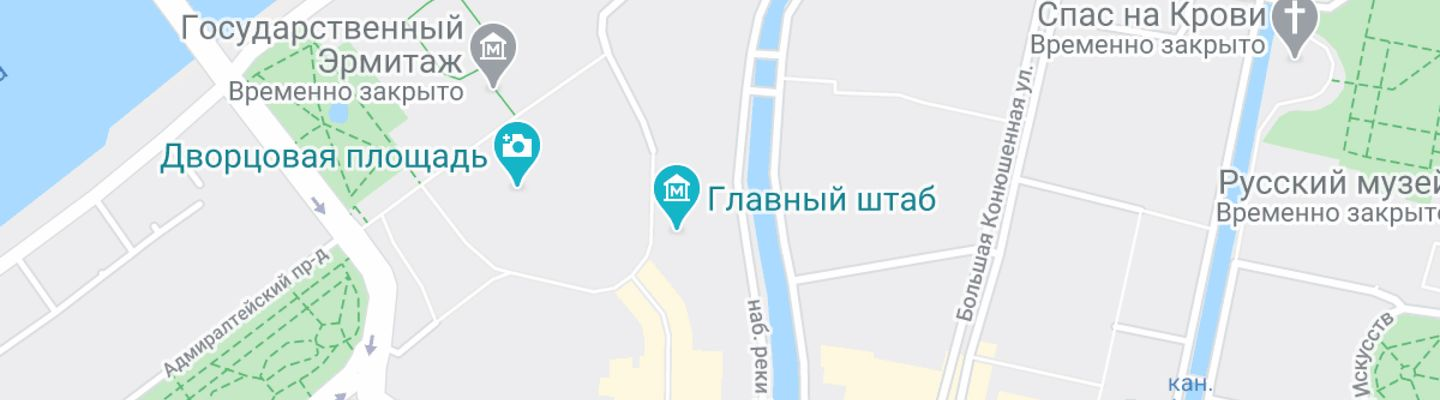
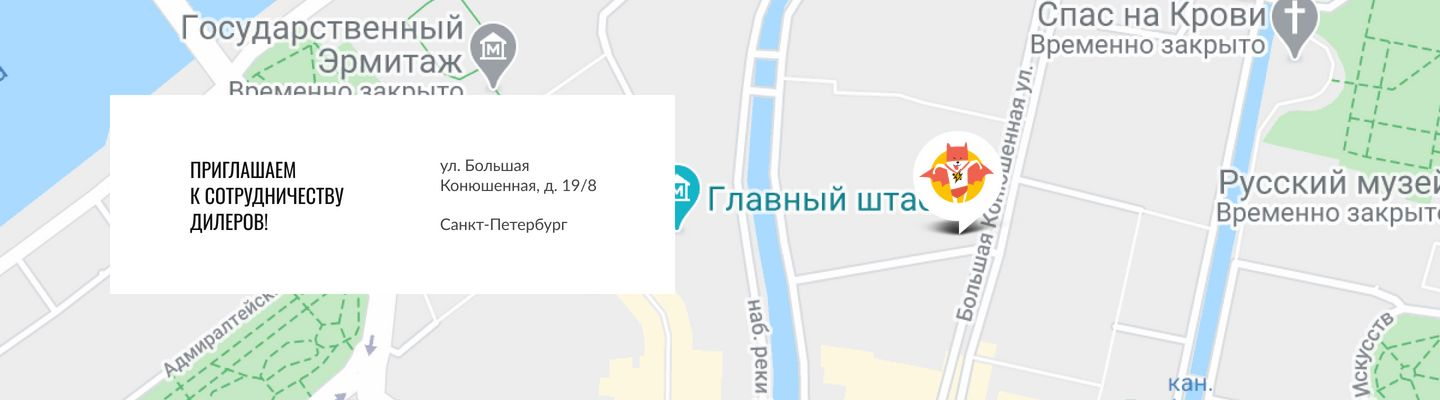
Обновления по замечаниям

diff --git a/source/index.html b/source/index.html
@@ -73,25 +73,23 @@
       </div>
     </section>
     <section class="programs" data-test="programs">
-      <div class="programs__wrapper">
-        <h2 class="visually-hidden">Программы питания для котов</h2>
-        <ul class="programs__programs-list programs-list">
-          <li class="programs-list__item programs-list__item--slim">
-            <h3 class="programs-list__title">Похудение</h3>
-            <p class="programs-list__description">Ваш кот весит больше собаки и почти утратил способность
-              лазить по деревьям? Пора на диету! Cat Energy Slim поможет
-              вашему питомцу сбросить лишний вес.</p>
-            <a class="programs-list__link" href="#">Каталог Slim</a>
-          </li>
-          <li class="programs-list__item programs-list__item--pro">
-            <h3 class="programs-list__title">Набор массы</h3>
-            <p class="programs-list__description">Заработать авторитет среди дворовых котов и даже собак?
-              Серия Cat Energy Pro поможет вашему коту нарастить
-              необходимые мышцы!</p>
-            <a class="programs-list__link" href="#">Каталог  Pro</a>
-          </li>
-        </ul>
-      </div>
+      <h2 class="visually-hidden">Программы питания для котов</h2>
+      <ul class="programs__programs-list programs-list">
+        <li class="programs-list__item programs-list__item--slim">
+          <h3 class="programs-list__title">Похудение</h3>
+          <p class="programs-list__description">Ваш кот весит больше собаки и почти утратил способность
+            лазить по деревьям? Пора на диету! Cat Energy Slim поможет
+            вашему питомцу сбросить лишний вес.</p>
+          <a class="programs-list__link" href="#">Каталог Slim</a>
+        </li>
+        <li class="programs-list__item programs-list__item--pro">
+          <h3 class="programs-list__title">Набор массы</h3>
+          <p class="programs-list__description">Заработать авторитет среди дворовых котов и даже собак?
+            Серия Cat Energy Pro поможет вашему коту нарастить
+            необходимые мышцы!</p>
+          <a class="programs-list__link" href="#">Каталог  Pro</a>
+        </li>
+      </ul>
     </section>
     <section class="work-description" data-test="features">
       <h2 class="work-description__title">Как это работает</h2>
@@ -163,7 +161,7 @@
         </div>
       </div>
     </section>
-    <section class="office-location-map" data-test="contacts">
+    <section class="office-location-map office-location-map--nojs" data-test="contacts">
       <div class="office-location-map__wrapper">
         <h3 class="office-location-map__title">Приглашаем к&nbsp;сотрудничеству дилеров!</h3>
         <div class="office-location-map__description">

diff --git a/source/styles/blocks/hero.scss b/source/styles/blocks/hero.scss
@@ -1,20 +1,25 @@
 .hero::before {
   @media (min-width: $desktop-width) {
-    position: absolute;
-    top: 0;
-    right: 0;
-    content: "";
+
     background-image:
-      linear-gradient(to bottom, rgba(104, 183, 56, 0.85), rgba(104, 183, 56, 0.85)),
+      linear-gradient(rgba(104, 183, 56, 0.85), rgba(104, 183, 56, 0.85) 50%),
       image-set(
         url("../../images/hero-background-desktop@2x.webp") type("image/webp") 2x,
         url("../../images/hero-background-desktop@1x.webp") type("image/webp") 1x,
         url("../../images/hero-background-desktop@2x.jpg") 2x,
         url("../../images/hero-background-desktop@1x.jpg") 1x),
-      linear-gradient(to right, #403f45, #403f45);
-    width: 50%;
-    height: 694px;
+      linear-gradient (#403e41,
+        #403e41 50%);
+    background-position: center, 0 0, center;
+    background-size: cover;
     background-repeat: no-repeat;
+    background-color: $bg-basic-green;
+    min-height: 694px;
+    width: 50%;
+    position: absolute;
+    top: 0;
+    right: 0;
+    display: block;
     z-index: -1;
   }
 }
@@ -53,8 +58,8 @@
 
   @media (min-width: $desktop-width) {
     grid-template-columns: 225px 1fr 1fr 1fr;
-    padding: 29px 110px 52px;
-    max-width: 1920px;
+    padding: 29px 0 52px;
+    max-width: 1220px;
   }
 }
 
@@ -128,6 +133,8 @@
 .hero picture {
   @media (min-width: $tablet-width) {
     display: contents;
+    margin: 0;
+    padding: 0;
   }
 }
 
@@ -160,3 +167,4 @@
     margin-top: 38px;
   }
 }
+

diff --git a/source/styles/blocks/nav-list.scss b/source/styles/blocks/nav-list.scss
@@ -3,13 +3,14 @@
   list-style-type: none;
   text-align: center;
   min-width: 320px;
-  width: 100%;
   margin-bottom: 0;
 
 
   @media (min-width: $tablet-width) {
     display: flex;
     margin: 0;
+    margin-right: 34px;
+    margin-left: 34px;
     min-width: 436px;
     flex-wrap: wrap;
     gap: 33px;
@@ -26,12 +27,6 @@
   }
 }
 
-.nav-list:last-child {
-  @media (min-width: $tablet-width) {
-    margin-right: 34px;
-  }
-}
-
 .nav-list__item {
   display: block;
   padding: 23px;
@@ -45,7 +40,6 @@
 
   @media (min-width: $desktop-width) {
     border: none;
-    margin: auto;
     padding: 0;
   }
 }
@@ -83,6 +77,7 @@
 .nav-list__link--current {
   @media (min-width: $tablet-width) {
     position: relative;
+    display: block;
 
     &::after {
       content: "";

diff --git a/source/styles/blocks/developer.scss b/source/styles/blocks/developer.scss
@@ -1,3 +1,9 @@
+.developer {
+  @media (min-width: $tablet-width) {
+    width: 200px;
+  }
+}
+
 .developer__text {
   font-family: $secondary-font;
   font-size: 16px;
@@ -5,15 +11,16 @@
   color: $base-color-text;
   text-decoration: none;
   display: flex;
-  flex-wrap: wrap;
   justify-content: space-between;
   align-items: center;
+  gap: 5px;
   padding-top: 20px;
 
 
   @media (min-width: $tablet-width) {
     gap: 23px;
     padding: 0;
+    justify-content: flex-end;
   }
 }
 
@@ -26,6 +33,7 @@
   mask-image: url("../../icons/stack.svg#logo-html-academy");
   mask-repeat: no-repeat;
   mask-position: center;
+  flex-shrink: 0;
 }
 
 .developer__text:hover::after {

diff --git a/source/styles/blocks/parametres-list.scss b/source/styles/blocks/parametres-list.scss
@@ -7,6 +7,11 @@
   @media (min-width: $tablet-width) {
     gap: 42px;
   }
+
+  @media (min-width: $desktop-width) {
+    align-items: baseline;
+    justify-content: flex-start;
+  }
 }
 
 .parametres-list__item {
@@ -15,7 +20,7 @@
   padding-bottom: 14px;
 
   @media (min-width: $tablet-width) {
-    min-width: 162px;
+    width: 162px;
   }
 }
 
@@ -34,17 +39,15 @@
   margin: -10px auto 0;
 
   @media (min-width: $tablet-width) {
-    min-width: max-content;
-
     font-size: 14px;
     line-height: 16px;
-
     background-color: #ffffff;
     z-index: 1;
   }
 
   @media (min-width: $desktop-width) {
     background-color: #eaeaea;
+    width: 80%;
   }
 }
 

diff --git a/source/styles/blocks/offer.scss b/source/styles/blocks/offer.scss
@@ -8,7 +8,6 @@
       url("../../images/offer-background-mobile@2x.png") 2x type("image/png"),
       url("../../images/offer-background-mobile@1x.png") 1x type("image/png"));
   background-repeat: no-repeat;
-  background-size: cover, auto;
   padding: 60px 59px 43px;
 
   @media (min-width: $tablet-width) {
@@ -37,6 +36,7 @@
         url("../../images/offer-background-desktop@1x.webp") 1x type("image/webp"),
         url("../../images/offer-background-desktop@2x.png") 2x type("image/png"),
         url("../../images/offer-background-desktop@1x.png") 1x type("image/png"));
+    background-size: 100%;
   }
 }
 

diff --git a/source/catalog.html b/source/catalog.html
@@ -373,7 +373,7 @@
         </form>
       </div>
     </section>
-    <section class="office-location-map office-location-map--catalog" data-test="contacts">
+    <section class="office-location-map office-location-map--catalog office-location-map--nojs" data-test="contacts">
       <div class="office-location-map__wrapper">
         <h3 class="office-location-map__title">Приглашаем к&nbsp;сотрудничеству дилеров!</h3>
         <div class="office-location-map__description">

diff --git a/source/styles/blocks/main-header.scss b/source/styles/blocks/main-header.scss
@@ -1,4 +1,3 @@
-
 .main-header {
   font-family: $primary-font;
 
@@ -33,10 +32,6 @@
   @media (min-width: $tablet-width) {
     display: block;
   }
-
-  @media (min-width: $desktop-width) {
-    width: 40%;
-  }
 }
 
 .main-header__wrapper {
@@ -49,11 +44,13 @@
   @media (min-width: $tablet-width) {
     padding: 0;
     margin-bottom: 0;
+    width: 768px;
   }
 
   @media (min-width: $desktop-width) {
     padding-top: 32px;
-    margin-bottom: 0;
+    margin: 0;
+    width: 1220px;
   }
 }
 

diff --git a/source/styles/blocks/card.scss b/source/styles/blocks/card.scss
@@ -12,7 +12,7 @@
     min-height: 429px;
     width: 324px;
     border-bottom: none;
-    background-image: linear-gradient(to bottom, #ffffff 16%, #ffffff 16%, #f2f2f2 16%);
+    background-image: linear-gradient(to bottom, #ffffff 81px, #ffffff 81px, #f2f2f2 81px);
     box-sizing: border-box;
     align-items: center;
     flex-wrap: nowrap;
@@ -213,6 +213,7 @@
   @media (min-width: $desktop-width) {
     width: 169px;
     margin: 0;
+    margin-top: auto;
   }
 }
 

diff --git a/source/styles/blocks/example.scss b/source/styles/blocks/example.scss
@@ -13,7 +13,7 @@
 
   @media (min-width: $desktop-width) {
     background-color: #ffffff;
-    background-image: (linear-gradient #ffffff 30%, #f2f2f2 30%);
+    background-image: linear-gradient (#ffffff 30%, #f2f2f2 30%);
     padding: 0;
   }
 }
@@ -91,6 +91,7 @@
     justify-content: space-between;
     align-items: center;
     margin-bottom: 72px;
+    row-gap: 20px;
   }
 
   @media (min-width: $desktop-width) {

diff --git a/source/styles/blocks/office-location-map.scss b/source/styles/blocks/office-location-map.scss
@@ -14,6 +14,10 @@
   }
 }
 
+.office-location-map--nojs .office-location-map__widget {
+  display: none;
+}
+
 .office-location-map__wrapper {
   display: flex;
   justify-content: space-between;
@@ -48,6 +52,7 @@
   font-family: $primary-font;
   font-size: 16px;
   line-height: 20px;
+  font-weight: 400;
 
   @media (min-width: $tablet-width) {
     font-size: 20px;

diff --git a/source/styles/blocks/main-footer.scss b/source/styles/blocks/main-footer.scss
@@ -48,9 +48,12 @@
 
   @media (min-width: $tablet-width) {
     margin: 0;
+    width: 200px;
+    justify-content: flex-start;
   }
 }
 
 .main-footer__logotype-text-logo {
   display: block;
+  max-width: 100%;
 }
